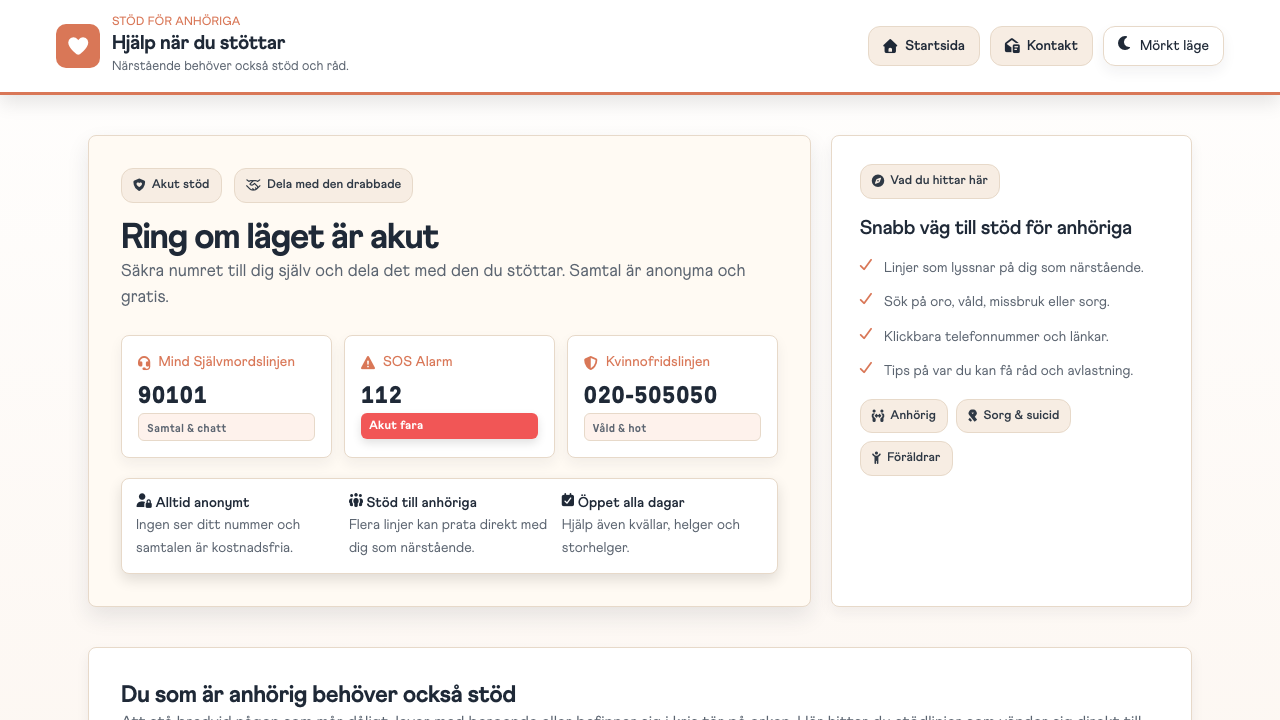
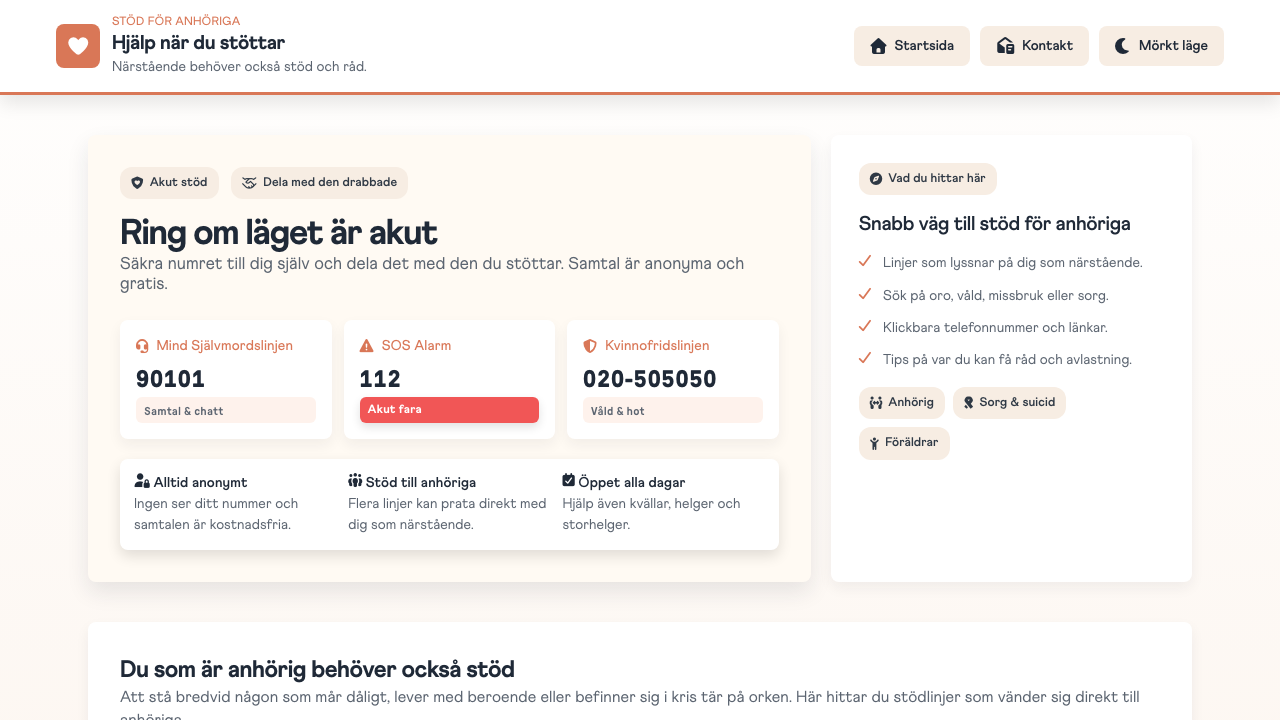
..

diff --git a/index.html b/index.html
@@ -345,22 +345,34 @@
             Här är några stödlinjer som vänder sig särskilt till dig som är anhörig eller
             närstående:
           </p>
-          <ul class="list-disc list-inside muted text-sm space-y-2">
-            <li>
-              <strong>Anhöriglinjen</strong> – för dig som är anhörig eller närstående till någon
-              som är sjuk, har funktionsnedsättning, beroende eller andra svårigheter.
+          <ul class="list-none muted text-sm space-y-2">
+            <li class="flex items-start gap-2">
+              <i class="fas fas-check text-[var(--accent)]"></i>
+              <span
+                ><strong>Anhöriglinjen</strong> – för dig som är anhörig eller närstående till någon
+                som är sjuk, har funktionsnedsättning, beroende eller andra svårigheter.</span
+              >
             </li>
-            <li>
-              <strong>SPES stödlinje</strong> – för dig som har förlorat någon i suicid och vill
-              prata med någon som varit med om liknande.
+            <li class="flex items-start gap-2">
+              <i class="fas fas-check text-[var(--accent)]"></i>
+              <span
+                ><strong>SPES stödlinje</strong> – för dig som har förlorat någon i suicid och vill
+                prata med någon som varit med om liknande.</span
+              >
             </li>
-            <li>
-              <strong>Föräldralinjen</strong> – för dig som är förälder eller annan viktig vuxen
-              kring barn och unga och känner oro.
+            <li class="flex items-start gap-2">
+              <i class="fas fas-check text-[var(--accent)]"></i>
+              <span
+                ><strong>Föräldralinjen</strong> – för dig som är förälder eller annan viktig vuxen
+                kring barn och unga och känner oro.</span
+              >
             </li>
-            <li>
-              <strong>Al-Anon Familjegrupper</strong> – gemenskap för anhöriga till alkoholister,
-              med möten runt om i Sverige och online.
+            <li class="flex items-start gap-2">
+              <i class="fas fas-check text-[var(--accent)]"></i>
+              <span
+                ><strong>Al-Anon Familjegrupper</strong> – gemenskap för anhöriga till alkoholister,
+                med möten runt om i Sverige och online.</span
+              >
             </li>
           </ul>
           <p class="text-xs muted mt-4">

diff --git a/anhoriga.html b/anhoriga.html
@@ -331,19 +331,31 @@
             avlastning.
           </p>
           <p class="muted text-sm leading-relaxed mb-4">Några linjer som lyssnar på dig:</p>
-          <ul class="list-disc list-inside muted text-sm space-y-2">
-            <li>
-              <strong>Anhöriglinjen</strong> – råd och stöd när du stöttar någon med sjukdom,
-              funktionsnedsättning eller beroende.
+          <ul class="list-none muted text-sm space-y-2">
+            <li class="flex items-start gap-2">
+              <i class="fas fas-check text-[var(--accent)]"></i>
+              <span
+                ><strong>Anhöriglinjen</strong> – råd och stöd när du stöttar någon med sjukdom,
+                funktionsnedsättning eller beroende.</span
+              >
             </li>
-            <li><strong>SPES stödlinje</strong> – prata med andra som förlorat någon i suicid.</li>
-            <li>
-              <strong>Föräldralinjen</strong> – stöd till dig som är orolig för ett barn eller en
-              ung person.
+            <li class="flex items-start gap-2">
+              <i class="fas fas-check text-[var(--accent)]"></i>
+              <span><strong>SPES stödlinje</strong> – prata med andra som förlorat någon i suicid.</span>
             </li>
-            <li>
-              <strong>Al-Anon Familjegrupper</strong> – gemenskap för anhöriga till alkoholister,
-              med möten även online.
+            <li class="flex items-start gap-2">
+              <i class="fas fas-check text-[var(--accent)]"></i>
+              <span
+                ><strong>Föräldralinjen</strong> – stöd till dig som är orolig för ett barn eller en
+                ung person.</span
+              >
+            </li>
+            <li class="flex items-start gap-2">
+              <i class="fas fas-check text-[var(--accent)]"></i>
+              <span
+                ><strong>Al-Anon Familjegrupper</strong> – gemenskap för anhöriga till alkoholister,
+                med möten även online.</span
+              >
             </li>
           </ul>
           <p class="text-xs muted mt-4">
